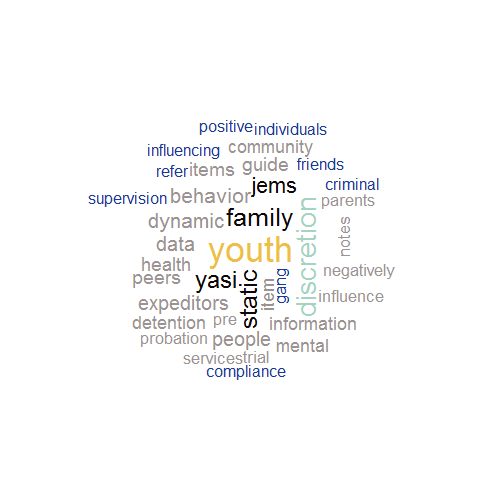
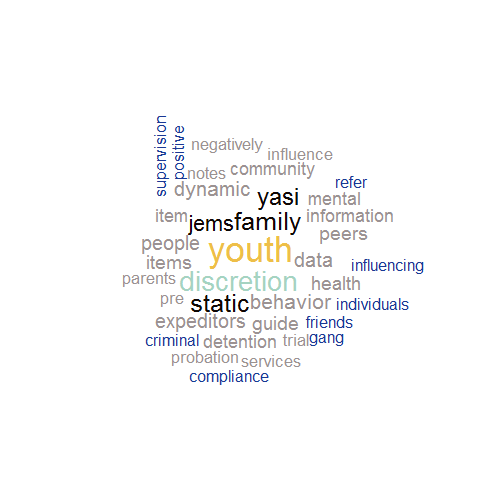
"second committ"

Changed region(s): [[0.1786, 0.2381, 0.8631, 0.7738]]

diff --git a/discretion_presentation.html b/discretion_presentation.html
@@ -19,17 +19,18 @@ class: middle
 # Discretion Mapping
 .bottom[.right[Tuesday, July 07, 2018]]
 ---
-&lt;img src="discretion_presentation_files/figure-html/wordcloud-1.png" style="display: block; margin: auto;" /&gt;
----
-# what is core
+# What Is Core
+
 * Committee for Results on Equity
 
 --
+
 * From our efforts on Disproportionate Minority Contact
+
 
 --
 
-* Advises MOAT to ensure policy and program equity regardles identity, including:
+* Advises MOAT to ensure policy and program equity regardles of identity, including:
 
   + Racial
   + Ethnic
@@ -37,29 +38,53 @@ class: middle
   + Sexual
   + Religious
   
-## mapping
-* defined 
-* scope
- + no assessment or evaluation
 ---
-# Method: Three distinction sections
-* pre
-  + detention screening
-  + expidtior
-  
-* trial
+
+# The Mapping Project
+
+* Definition of Discretion: 
+  + Discretion refers to the choices made by the officer when implementing
+    - policy
+    - practice
+    - or referring to a program. 
+
+* Scope
+
+ + Limited to Probation and Court Services
+ 
+ + Mapping areas of discretion, not measuring discretion
+ 
+ 
+---
+# Method: 
+## Three distinction sections
+
+* Pre-trial
+  + Detention Screening
+  + Expeditor
+
+* Trial/Hearing
   + Adjudication
   + Field
   
-* supervision
+* Services
   + Field
   + Clinical
 ---
-—young mN of color traveling through probation
-—Data sources
-——p&amp;p
-——interviews
-——review of forms
+
+# Method: 
+## Through the System
+
+* Young man of color traveling through probation
+* Data sources
+  + Policies
+  + Forms
+  + Program Documentaion
+  + Interviews with DCPOs, SPOs, POs
+---
+
+# Exploring our notes
+&lt;img src="discretion_presentation_files/figure-html/wordcloud-1.png" style="display: block; margin: auto;" /&gt;
 ---
 Next Step
 ---

diff --git a/pro_presentation.css b/pro_presentation.css
@@ -52,8 +52,10 @@ font-family: Lato, sans-serif;
 ul,ol,dl,p{
 	font-family: 'Nobile', sans-serif;
 	text-align: left;
-	font-size: 1.5em;
+	font-size: 1.5rem;
+		text-rendering: optimizelegibility !important;
 }
+
 
 	
 
